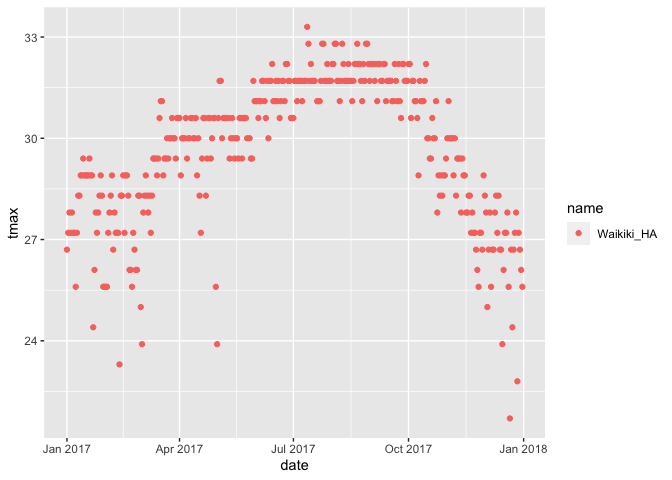
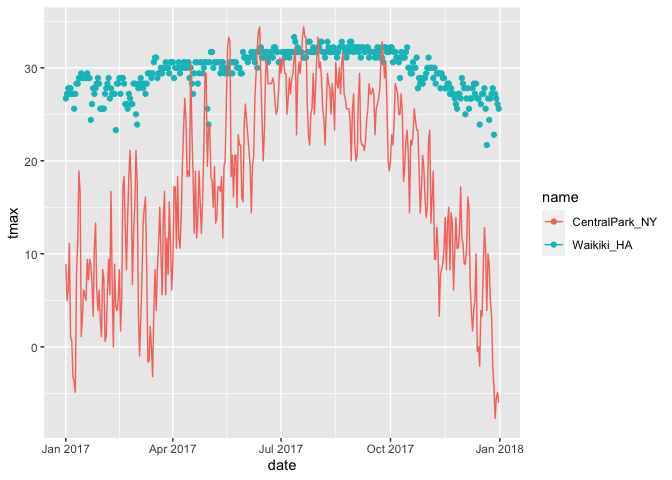
patchwork

diff --git a/vis_2.md b/vis_2.md
@@ -232,16 +232,65 @@ scale_fill_discrete = scale_fill_viridis_d
 ``` r
 central_park =
   weather_df%>%
-  filter(name =="CentralPack_NY")
+  filter(name =="CentralPark_NY")
 
 waikiki = 
   weather_df%>%
   filter(name == "Waikiki_HA")
 
 ggplot(waikiki, aes(x = date, y = tmax, color = name)) +
-  geom_point() 
+  geom_point() +
+  geom_line(data = central_park)
 ```
 
     ## Warning: Removed 3 rows containing missing values (geom_point).
 
 ![](vis_2_files/figure-gfm/unnamed-chunk-9-1.png)<!-- -->
+
+## patchwork
+
+``` r
+weather_df%>%
+  ggplot(aes(x = tmin, fill = name)) +
+  geom_density(alpha = .5)+
+  facet_grid(.~name)
+```
+
+    ## Warning: Removed 15 rows containing non-finite values (stat_density).
+
+![](vis_2_files/figure-gfm/unnamed-chunk-10-1.png)<!-- -->
+
+what happens when you want multipanel plots but can’t facet…?
+
+``` r
+tmax_tmin_p = 
+weather_df%>%
+  ggplot(aes(x = tmin, y = tmax, color = name))+
+  geom_point(alpha = .5)+
+  theme(legend.position = "none")
+
+prcp_dens_p = 
+  weather_df%>%
+  filter(prcp>0)%>%
+  ggplot(aes(x = prcp, fill = name)) +
+  geom_density(alpha=.5)
+
+tmax_date_p = 
+  weather_df%>%
+  ggplot(aes(x = date, y = tmax, color = name))+
+  geom_point()+
+  geom_smooth(se = FALSE)+
+  theme(legend.position = "none")
+
+(tmax_tmin_p+prcp_dens_p)/tmax_date_p
+```
+
+    ## Warning: Removed 15 rows containing missing values (geom_point).
+
+    ## `geom_smooth()` using method = 'loess' and formula 'y ~ x'
+
+    ## Warning: Removed 3 rows containing non-finite values (stat_smooth).
+
+    ## Warning: Removed 3 rows containing missing values (geom_point).
+
+![](vis_2_files/figure-gfm/unnamed-chunk-11-1.png)<!-- -->
